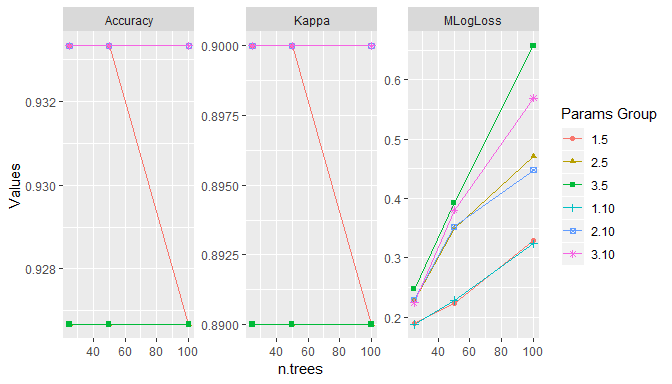
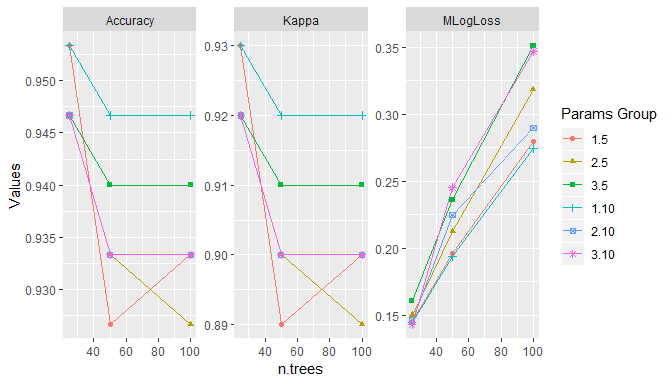
Expand README examples

diff --git a/README.md b/README.md
@@ -233,25 +233,30 @@ devtools::install_github("brian-j-smith/MachineShop", build_vignettes = TRUE)
 Example
 -------
 
-The following is a brief example using the package to apply gradient boosted models to predict the species of flowers in Edgar Anderson's iris dataset.
+The following is a brief example using the package to apply gradient boosted models to predict the species of flowers in Edgar Anderson's iris data set.
+
+### Training and Test Set Analysis
 
 ``` r
 ## Load the package
 library(MachineShop)
 library(magrittr)
 
-## Iris flower species (3 level response)
+## Iris flower species (3 level response) data set
 df <- iris
 df$Species <- factor(df$Species)
 
-## Create training and test sets
+## Training and test sets
 set.seed(123)
 trainindices <- sample(nrow(df), nrow(df) * 2 / 3)
 train <- df[trainindices, ]
 test <- df[-trainindices, ]
 
+## Model formula
+fo <- Species ~ .
+
 ## Gradient boosted mode fit to training set
-gbmfit <- fit(Species ~ ., data = train, model = GBMModel)
+gbmfit <- fit(fo, data = train, model = GBMModel)
 
 ## Variable importance
 (vi <- varimp(gbmfit))
@@ -277,15 +282,24 @@ predict(gbmfit, newdata = test, type = "prob") %>% head
 #> [5,] 0.9998941 1.059313e-04 8.577135e-09
 #> [6,] 0.9999291 7.084465e-05 5.736212e-09
 
-## Test set predicted classification
+## Test set predicted classifications
 predict(gbmfit, newdata = test) %>% head
 #> [1] setosa setosa setosa setosa setosa setosa
 #> Levels: setosa versicolor virginica
+
+## Test set performance
+obs <- response(fo, data = test)
+pred <- predict(gbmfit, newdata = test, type = "prob")
+modelmetrics(obs, pred)
+#>  Accuracy     Kappa  MLogLoss 
+#> 0.9200000 0.8793727 0.4522663
 ```
+
+### Resampling
 
 ``` r
 ## Resample estimation of model performance
-(perf <- resample(Species ~ ., data = df, model = GBMModel))
+(perf <- resample(fo, data = df, model = GBMModel, control = CVControl))
 #> An object of class "Resamples"
 #> 
 #> metrics: Accuracy, Kappa, MLogLoss
@@ -295,19 +309,21 @@ predict(gbmfit, newdata = test) %>% head
 #> resamples: 10
 
 summary(perf)
-#>               Mean    Median         SD          Min       Max NA
-#> Accuracy 0.9400000 0.9333333 0.04919099 0.8666666667 1.0000000  0
-#> Kappa    0.9100000 0.9000000 0.07378648 0.8000000000 1.0000000  0
-#> MLogLoss 0.2624184 0.2301317 0.23719156 0.0008299047 0.5474997  0
+#>               Mean    Median         SD         Min       Max NA
+#> Accuracy 0.9466667 0.9333333 0.05258738 0.866666667 1.0000000  0
+#> Kappa    0.9200000 0.9000000 0.07888106 0.800000000 1.0000000  0
+#> MLogLoss 0.2552582 0.1063595 0.28612682 0.001919676 0.7497674  0
 
 plot(perf)
 ```
 
 <img src="man/figures/README-unnamed-chunk-5-1.png" style="display: block; margin: auto;" />
 
+### Model Tuning
+
 ``` r
 ## Model tuning
-gbmtune <- tune(Species ~ ., data = df, model = GBMModel,
+gbmtune <- tune(fo, data = df, model = GBMModel,
                 grid = expand.grid(n.trees = c(25, 50, 100),
                                    interaction.depth = 1:3,
                                    n.minobsinnode = c(5, 10)))
@@ -316,6 +332,135 @@ plot(gbmtune, type = "line")
 ```
 
 <img src="man/figures/README-unnamed-chunk-6-1.png" style="display: block; margin: auto;" />
+
+``` r
+## Fit the tuned model
+gbmtunefit <- fit(fo, data = df, model = gbmtune)
+
+varimp(gbmtunefit)
+#>                Overall
+#> Petal.Length 100.00000
+#> Petal.Width   36.94008
+#> Sepal.Length   0.00000
+#> Sepal.Width    0.00000
+```
+
+### Model Comparisons
+
+``` r
+## Model comparisons
+control <- CVControl(folds = 10, repeats = 5)
+
+gbmperf <- resample(fo, data = df, model = GBMModel, control = control)
+rfperf <- resample(fo, data = df, model = RandomForestModel, control = control)
+nnetperf <- resample(fo, data = df, model = NNetModel, control = control)
+
+perf <- Resamples(GBM = gbmperf, RF = rfperf, NNet = nnetperf)
+
+summary(perf)
+#> , , Accuracy
+#> 
+#>           Mean    Median         SD       Min Max NA
+#> GBM  0.9413333 0.9333333 0.04595176 0.8666667   1  0
+#> RF   0.9560000 0.9333333 0.04782811 0.8666667   1  0
+#> NNet 0.8026667 0.9333333 0.22170643 0.2000000   1  0
+#> 
+#> , , Kappa
+#> 
+#>       Mean Median         SD  Min Max NA
+#> GBM  0.912    0.9 0.06892765  0.8   1  0
+#> RF   0.934    0.9 0.07174217  0.8   1  0
+#> NNet 0.704    0.9 0.33255965 -0.2   1  0
+#> 
+#> , , MLogLoss
+#> 
+#>           Mean     Median         SD          Min       Max NA
+#> GBM  0.2701410 0.20428253 0.26370125 8.629640e-04 0.9391568  0
+#> RF   0.1163476 0.09404182 0.09769631 8.437327e-03 0.3860373  0
+#> NNet 0.4244166 0.46209812 0.46775866 8.472304e-05 1.8545264  0
+
+plot(perf)
+```
+
+<img src="man/figures/README-unnamed-chunk-8-1.png" style="display: block; margin: auto;" />
+
+``` r
+## Pairwise model differences and t-tests
+perfdiff <- diff(perf)
+
+summary(perfdiff)
+#> , , Accuracy
+#> 
+#>                   Mean Median         SD         Min        Max NA
+#> GBM - RF   -0.01466667      0 0.03636549 -0.06666667 0.06666667  0
+#> GBM - NNet  0.13866667      0 0.22691463 -0.13333333 0.73333333  0
+#> RF - NNet   0.15333333      0 0.22985749 -0.13333333 0.73333333  0
+#> 
+#> , , Kappa
+#> 
+#>              Mean Median         SD  Min Max NA
+#> GBM - RF   -0.022      0 0.05454824 -0.1 0.1  0
+#> GBM - NNet  0.208      0 0.34037195 -0.2 1.1  0
+#> RF - NNet   0.230      0 0.34478624 -0.2 1.1  0
+#> 
+#> , , MLogLoss
+#> 
+#>                  Mean       Median        SD         Min       Max NA
+#> GBM - RF    0.1537934  0.073026764 0.1913883 -0.03670239 0.5726908  0
+#> GBM - NNet -0.1542756  0.001171424 0.4843939 -1.71381702 0.6686546  0
+#> RF - NNet  -0.3080690 -0.205618326 0.4625920 -1.77270930 0.2399817  0
+
+t.test(perfdiff)
+#> An object of class "ResamplesHTest"
+#> 
+#> upper diagonal: mean differences (row - column)
+#> lower diagonal: p-values
+#> p-value adjustment: holm
+#> 
+#> , , Accuracy
+#> 
+#>               GBM            RF      NNet
+#> GBM            NA -1.466667e-02 0.1386667
+#> RF   0.0063465898            NA 0.1533333
+#> NNet 0.0001513451  6.080819e-05        NA
+#> 
+#> , , Kappa
+#> 
+#>               GBM            RF  NNet
+#> GBM            NA -2.200000e-02 0.208
+#> RF   0.0063465898            NA 0.230
+#> NNet 0.0001513451  6.080819e-05    NA
+#> 
+#> , , MLogLoss
+#> 
+#>               GBM           RF       NNet
+#> GBM            NA 1.537934e-01 -0.1542756
+#> RF   2.160468e-06           NA -0.3080690
+#> NNet 2.883235e-02 4.163375e-05         NA
+
+plot(perfdiff)
+```
+
+<img src="man/figures/README-unnamed-chunk-9-1.png" style="display: block; margin: auto;" />
+
+### Recipes
+
+``` r
+library(recipes)
+
+rec <- recipe(fo, data = df) %>%
+  step_center(all_predictors()) %>%
+  step_scale(all_predictors()) %>%
+  step_pca(all_predictors())
+
+perf <- resample(rec, model = GBMModel, control = CVControl)
+
+summary(perf)
+#>               Mean    Median         SD        Min       Max NA
+#> Accuracy 0.9466667 0.9333333 0.04216370 0.86666667 1.0000000  0
+#> Kappa    0.9200000 0.9000000 0.06324555 0.80000000 1.0000000  0
+#> MLogLoss 0.1433132 0.1400161 0.12644266 0.01092646 0.3969964  0
+```
 
 Documentation
 -------------
